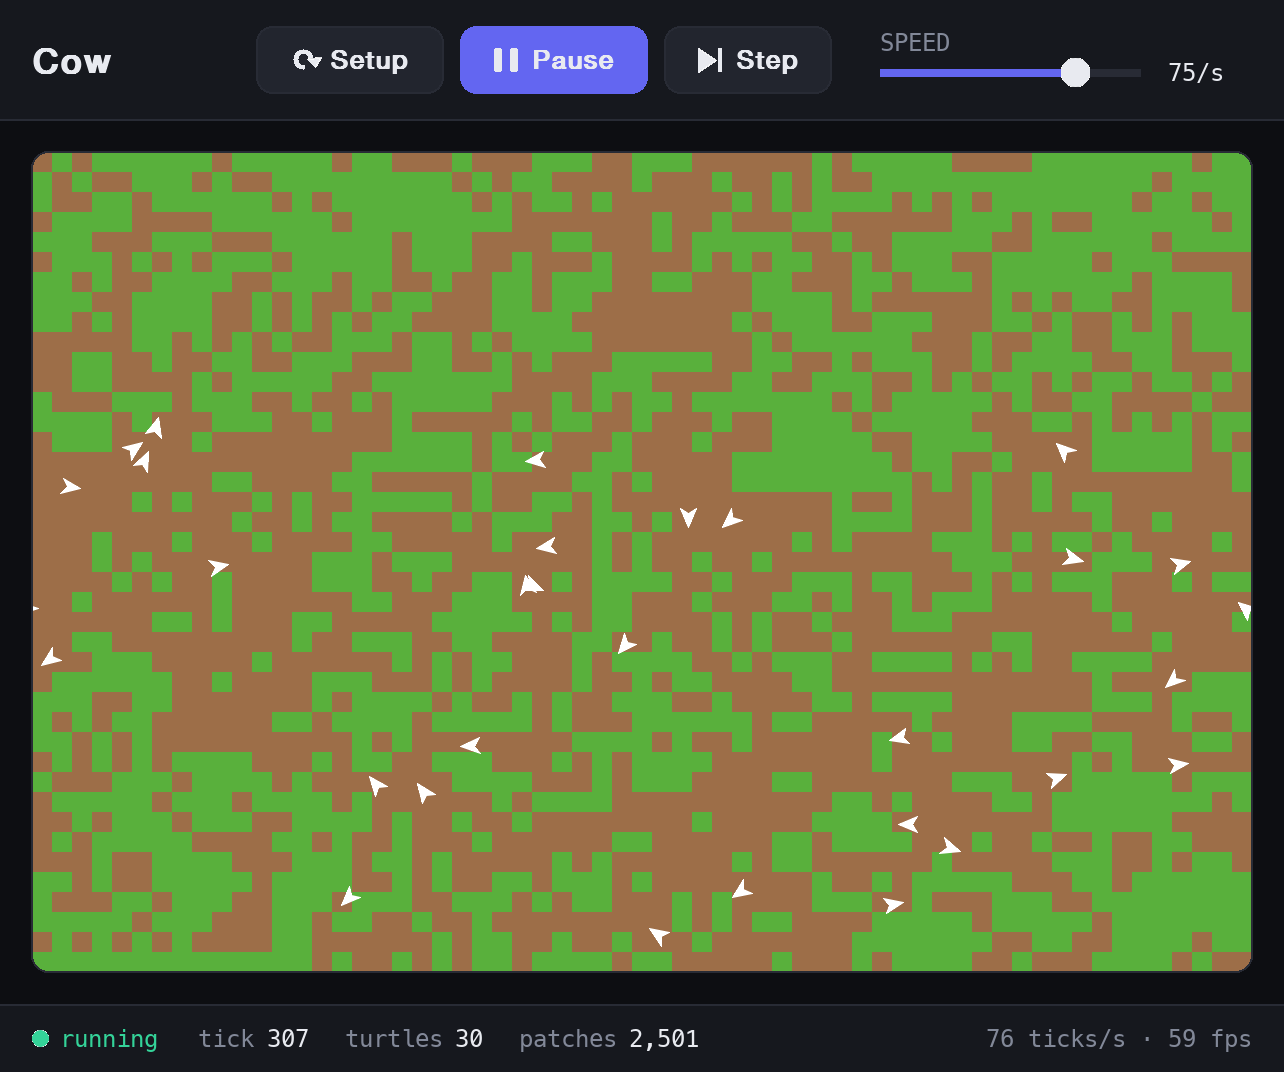
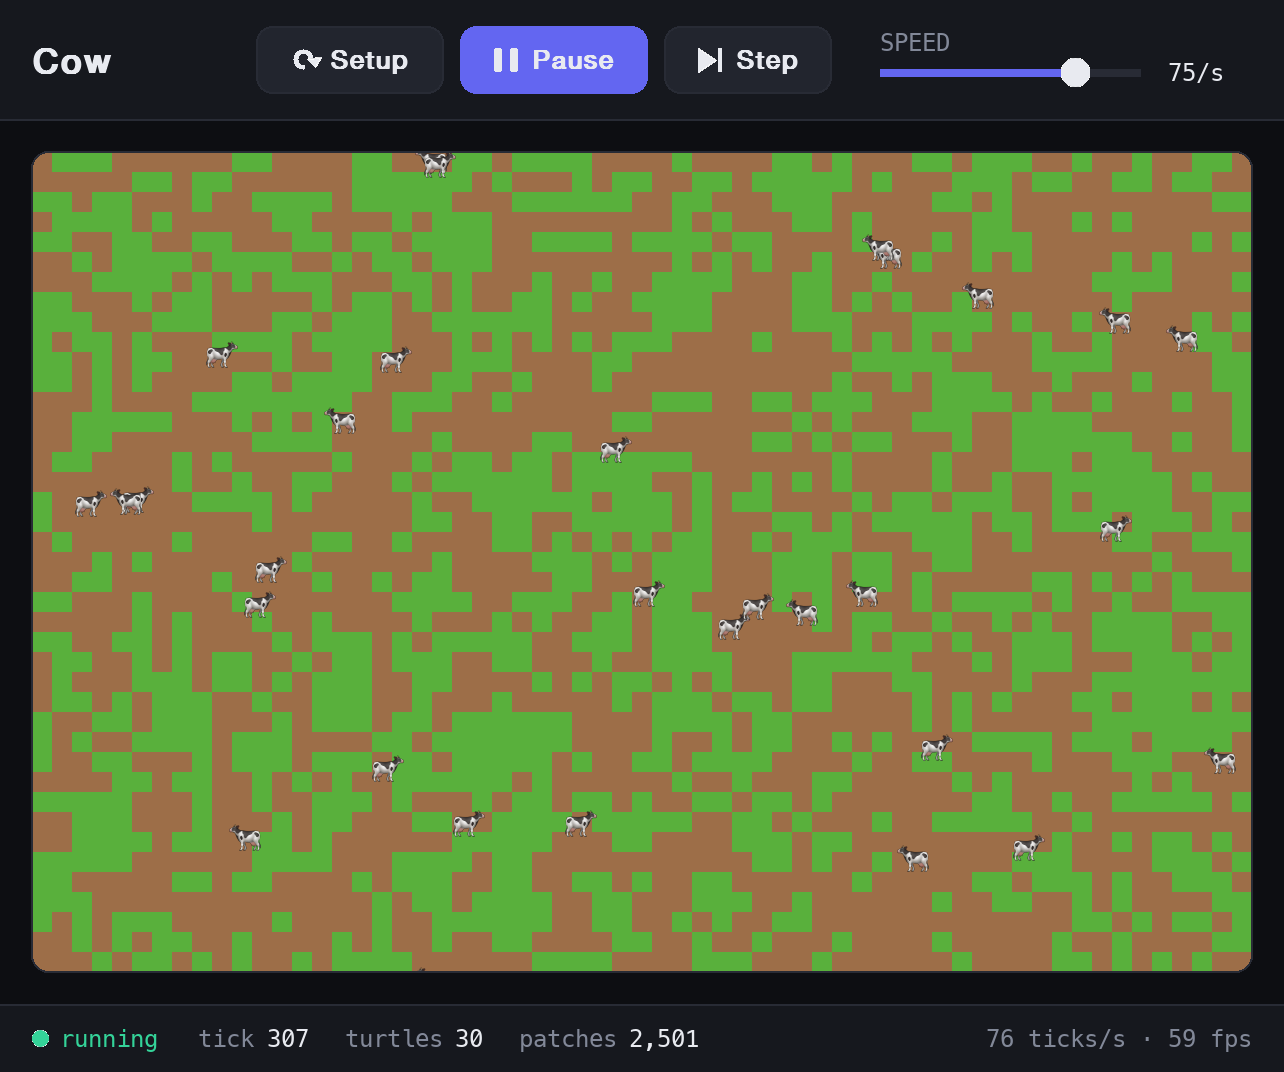
Add emoji turtle shapes with configurable orientation
Turtles can set shape to an emoji, drawn with the system color emoji font.
shape_orient (None, rotate, flip_x, flip_y, flip_xy) and shape_facing control
how it follows the heading. Missing fonts or glyphs fall back to the arrow
with a warning. The grazing example now uses cow emoji.

diff --git a/src/emerge/emoji.py b/src/emerge/emoji.py
@@ -1,0 +1,110 @@
+"""Rendering emoji turtle shapes with the system's color emoji font."""
+
+import math
+import warnings
+
+import pygame
+
+FONT_NAMES = "applecoloremoji,segoeuiemoji,notocoloremoji"
+FONT_PATHS = (
+    "/System/Library/Fonts/Apple Color Emoji.ttc",
+    "C:/Windows/Fonts/seguiemj.ttf",
+    "/usr/share/fonts/truetype/noto/NotoColorEmoji.ttf",
+    "/usr/share/fonts/noto/NotoColorEmoji.ttf",
+)
+# Bitmap emoji fonts snap to their nearest built-in size, typically ~100-160px.
+RENDER_SIZE = 128
+# Rotations are rounded to this many degrees so cached images can be reused.
+ANGLE_STEP = 3
+MAX_CACHE = 5000
+
+ORIENTS = (None, "rotate", "flip_x", "flip_y", "flip_xy")
+
+
+def orientation(orient: str | None, heading: float, facing: float) -> tuple[bool, bool, int]:
+    """How to transform an emoji drawn facing `facing` for a turtle heading
+    `heading`. Returns (flip_x, flip_y, angle), where angle is a pygame
+    rotation in degrees (counterclockwise), applied after flipping.
+    """
+    if orient not in ORIENTS:
+        raise ValueError(f"shape_orient must be one of {ORIENTS}, not {orient!r}")
+    if orient is None:
+        return False, False, 0
+    if orient == "rotate":
+        angle = round((facing - heading) / ANGLE_STEP) * ANGLE_STEP % 360
+        return False, False, angle
+    h, f = math.radians(heading), math.radians(facing)
+    # Flip when the heading points to the opposite side from the emoji's
+    # facing: east vs. west for x, north vs. south for y.
+    flip_x = orient in ("flip_x", "flip_xy") and math.sin(h) * math.sin(f) < -1e-9
+    flip_y = orient in ("flip_y", "flip_xy") and math.cos(h) * math.cos(f) < -1e-9
+    return flip_x, flip_y, 0
+
+
+class EmojiRenderer:
+    """Renders emoji at any size and orientation, caching the results."""
+
+    def __init__(self):
+        self._font: pygame.font.Font | None = None
+        self._font_loaded = False
+        self._base: dict[str, pygame.Surface | None] = {}
+        self._cache: dict[tuple, pygame.Surface] = {}
+
+    def _load_font(self) -> pygame.font.Font | None:
+        if not self._font_loaded:
+            self._font_loaded = True
+            if not pygame.font.get_init():
+                pygame.font.init()
+            path =pygame.font.match_font(FONT_NAMES)
+            candidates = ([path] if path else []) + list(FONT_PATHS)
+            for candidate in candidates:
+                try:
+                    self._font = pygame.font.Font(candidate, RENDER_SIZE)
+                    break
+                except (OSError, FileNotFoundError, pygame.error):
+                    continue
+            else:
+                warnings.warn("no color emoji font found; drawing emoji turtles as arrows")
+        return self._font
+
+    def _base_image(self, emoji: str) -> pygame.Surface | None:
+        """The emoji at full render size, cropped to its visible pixels, or
+        None if it can't be drawn.
+        """
+        if emoji not in self._base:
+            image = None
+            font = self._load_font()
+            if font is not None:
+                rendered = font.render(emoji, True, (255, 255, 255))
+                bounds = rendered.get_bounding_rect()
+                if bounds.width and bounds.height:
+                    image = rendered.subsurface(bounds).copy()
+                else:
+                    warnings.warn(f"emoji font has no glyph for {emoji!r}; drawing an arrow")
+            self._base[emoji] = image
+        return self._base[emoji]
+
+    def image(
+        self, emoji: str, size: int, orient: str | None, heading: float, facing: float
+    ) -> pygame.Surface | None:
+        """The emoji scaled to fit a `size`-pixel square and oriented for
+        `heading`, or None if it can't be drawn.
+        """
+        flip_x, flip_y, angle = orientation(orient, heading, facing)
+        key = (emoji, size, flip_x, flip_y, angle)
+        image = self._cache.get(key)
+        if image is None:
+            base = self._base_image(emoji)
+            if base is None:
+                return None
+            w, h = base.get_size()
+            fit = max(1, size) / max(w, h)
+            image = pygame.transform.smoothscale(base, (max(1, round(w * fit)), max(1, round(h * fit))))
+            if flip_x or flip_y:
+                image = pygame.transform.flip(image, flip_x, flip_y)
+            if angle:
+                image = pygame.transform.rotozoom(image, angle, 1)
+            if len(self._cache) >= MAX_CACHE:
+                self._cache.clear()
+            self._cache[key] = image
+        return image

diff --git a/src/emerge/gui.py b/src/emerge/gui.py
@@ -10,6 +10,7 @@ import time
 import pygame
 import pygame.gfxdraw
 
+from .emoji import EmojiRenderer
 from .model import Model, Turtle
 
 # --- Theme ----------------------------------------------------------------
@@ -49,7 +50,8 @@ FPS = 60
 # Turtle outline in turtle-local coordinates for a size-1 turtle: x is to the
 # turtle's right, y is straight ahead.
 TURTLE_SHAPE = [(0.0, 0.5), (0.4, -0.45), (0.0, -0.2), (-0.4, -0.45)]
-TURTLE_RADIUS = 0.5
+# Half the diagonal of a size-1 square: covers the arrow and rotated emoji.
+TURTLE_RADIUS = 0.71
 
 
 class Button:
@@ -89,6 +91,7 @@ class App:
         self.font_title = pygame.font.SysFont(UI_FONTS, self.px(17), bold=True)
         self.font_mono = pygame.font.SysFont(MONO_FONTS, self.px(12))
         self.clock = pygame.time.Clock()
+        self.emoji = EmojiRenderer()
 
         # World view, drawn at full pixel resolution.
         self.view_rect = pygame.Rect(
@@ -273,8 +276,17 @@ class App:
         )
 
     def draw_turtle(self, t: Turtle) -> None:
-        m = self.model
-        scale = m.patch_size * self.dpr
+        scale = self.model.patch_size * self.dpr
+        centers = self.turtle_centers(t, scale)
+        if t.shape is not None:
+            image = self.emoji.image(
+                t.shape, round(t.size * scale), t.shape_orient, t.heading, t.shape_facing
+            )
+            if image is not None:
+                for cx, cy in centers:
+                    self.view.blit(image, image.get_rect(center=(round(cx), round(cy))))
+                return
+
         rad = math.radians(t.heading)
         sin, cos = math.sin(rad), math.cos(rad)
         # Rotate clockwise by heading: "ahead" maps to (sin, cos).
@@ -282,7 +294,16 @@ class App:
             (lx * t.size * cos + ly * t.size * sin, -lx * t.size * sin + ly * t.size * cos)
             for lx, ly in TURTLE_SHAPE
         ]
-        # A turtle overlapping an edge is also drawn on the opposite side.
+        for cx, cy in centers:
+            points = [(round(cx + dx * scale), round(cy - dy * scale)) for dx, dy in local]
+            pygame.gfxdraw.filled_polygon(self.view, points, t.color)
+            pygame.gfxdraw.aapolygon(self.view, points, t.color)
+
+    def turtle_centers(self, t: Turtle, scale: float) -> list[tuple[float, float]]:
+        """Where to draw a turtle in view pixels. A turtle overlapping an edge
+        is also drawn on the opposite side.
+        """
+        m = self.model
         r = TURTLE_RADIUS * t.size
         x_offsets, y_offsets = [0], [0]
         if t.x + r > m.max_x + 0.5:
@@ -293,13 +314,11 @@ class App:
             y_offsets.append(-m.height)
         if t.y - r < -m.max_y - 0.5:
             y_offsets.append(m.height)
-        for ox in x_offsets:
-            for oy in y_offsets:
-                cx = (t.x + ox + m.max_x + 0.5) * scale
-                cy = (m.max_y + 0.5 - t.y - oy) * scale
-                points = [(round(cx + dx * scale), round(cy - dy * scale)) for dx, dy in local]
-                pygame.gfxdraw.filled_polygon(self.view, points, t.color)
-                pygame.gfxdraw.aapolygon(self.view, points, t.color)
+        return [
+            ((t.x + ox + m.max_x + 0.5) * scale, (m.max_y + 0.5 - t.y - oy) * scale)
+            for ox in x_offsets
+            for oy in y_offsets
+        ]
 
     def draw_header(self) -> None:
         bar = pygame.Rect(0, 0, self.win_w, HEADER_HEIGHT)

diff --git a/tests/test_emoji.py b/tests/test_emoji.py
@@ -1,0 +1,77 @@
+import pytest
+
+from emerge import Model, Turtle
+from emerge.emoji import EmojiRenderer, orientation
+from emerge.gui import App
+
+WEST, NORTH, NORTHEAST = 270, 0, 45
+
+
+@pytest.mark.parametrize("heading", [0, 90, 200, 333])
+def test_none_never_changes(heading):
+    assert orientation(None, heading, WEST) == (False, False, 0)
+
+
+@pytest.mark.parametrize(
+    "heading, flipped", [(0, False), (45, True), (90, True), (135, True), (180, False), (225, False), (270, False)]
+)
+def test_flip_x_faces_east_or_west(heading, flipped):
+    assert orientation("flip_x", heading, WEST) == (flipped, False, 0)
+
+
+@pytest.mark.parametrize(
+    "heading, flipped", [(0, False), (90, False), (135, True), (180, True), (225, True), (315, False)]
+)
+def test_flip_y_faces_north_or_south(heading, flipped):
+    assert orientation("flip_y", heading, NORTH) == (False, flipped, 0)
+
+
+@pytest.mark.parametrize(
+    "heading, flips", [(45, (False, False)), (135, (False, True)), (225, (True, True)), (315, (True, False))]
+)
+def test_flip_xy_picks_the_quadrant(heading, flips):
+    assert orientation("flip_xy", heading, NORTHEAST) == (*flips, 0)
+
+
+@pytest.mark.parametrize("heading, angle", [(270, 0), (0, 270), (90, 180), (180, 90), (271, 0)])
+def test_rotate_turns_facing_to_heading(heading, angle):
+    # pygame angles are counterclockwise; headings are clockwise.
+    assert orientation("rotate", heading, WEST) == (False, False, angle)
+
+
+def test_unknown_orient_raises():
+    with pytest.raises(ValueError, match="shape_orient"):
+        orientation("spin", 0, WEST)
+
+
+@pytest.fixture
+def renderer():
+    r = EmojiRenderer()
+    if r._load_font() is None:
+        pytest.skip("no color emoji font on this system")
+    return r
+
+
+def test_renders_scaled_emoji(renderer):
+    image = renderer.image("🐄", 40, "flip_x", 90, WEST)
+    assert max(image.get_size()) == 40
+    assert renderer.image("🐄", 40, "flip_x", 90, WEST) is image  # cached
+
+
+def test_missing_glyph_returns_none(renderer):
+    with pytest.warns(UserWarning, match="no glyph"):
+        assert renderer.image("\U000f0000", 40, None, 0, WEST) is None
+
+
+class Cow(Turtle):
+    shape = "🐄"
+
+
+def test_gui_draws_emoji_and_falls_back_to_arrows():
+    m = Model(breeds={Cow: 3, Turtle: 2}, max_x=3, max_y=3)
+    app = App(m, "emoji")
+    m.do_setup()
+    m.turtles[0].shape = "\U000f0000"  # no glyph: drawn as an arrow
+    with pytest.warns(UserWarning):
+        app.draw()
+    app.window.destroy()

diff --git a/src/emerge/model.py b/src/emerge/model.py
@@ -19,7 +19,25 @@ class Turtle:
     Don't override `__init__`; do per-turtle initialization in `setup`, which
     runs right after the model creates the turtle (with a random heading and
     color, at the origin).
+
+    By default a turtle is drawn as an arrow in its `color`. Set `shape` to an
+    emoji to draw that instead (in its own colors). `shape_orient` controls how
+    the emoji follows the turtle's heading:
+
+    - None: never changes.
+    - "rotate": rotates so its facing direction matches the heading.
+    - "flip_x": mirrors left/right to face east or west (the default).
+    - "flip_y": mirrors top/bottom to face north or south.
+    - "flip_xy": both flips, e.g. for an emoji drawn facing diagonally.
+
+    `shape_facing` is the heading the emoji is drawn facing: 270 (west) for
+    most animal emoji, 45 for 🚀. These can be set per turtle or as class
+    attributes.
     """
+
+    shape: str | None = None
+    shape_orient: str | None = "flip_x"
+    shape_facing: float = 270.0
 
     def __init__(
         self,

diff --git a/examples/grazing.py b/examples/grazing.py
@@ -19,8 +19,10 @@ class Grass(Patch):
 
 
 class Cow(Turtle):
+    shape = "🐄"
+
     def setup(self):
-        self.color = "white"
+        self.size = 1.6
         self.move_to(random.choice(self.model.patches))
 
     def step(self):

diff --git a/README.md b/README.md
@@ -57,6 +57,30 @@ or `(r, g, b)` tuples.
 shade of `color` running from black at `low`, through the color itself, to white at
 `high`. Swap `low` and `high` to reverse it. See `examples/cat_and_mouse.py`.
 
+### Emoji shapes
+
+Turtles are drawn as arrows in their `color` by default. Set `shape` to an emoji to draw
+that instead, and `shape_orient` to choose how it follows the turtle's heading:
+
+```python
+class Cow(Turtle):
+    shape = "🐄"
+    shape_orient = "flip_x"   # the default
+    shape_facing = 270        # the direction the emoji is drawn facing (west)
+```
+
+| `shape_orient` | The emoji... |
+| --- | --- |
+| `None` | never changes |
+| `"rotate"` | rotates so its facing direction matches the heading |
+| `"flip_x"` | mirrors left/right to face east or west |
+| `"flip_y"` | mirrors top/bottom to face north or south |
+| `"flip_xy"` | does both, e.g. 🚀 with `shape_facing = 45` |
+
+Most animal emoji face west, hence the default `shape_facing = 270`. These can be class
+attributes or set per turtle. Emoji use the system's color emoji font; if there isn't one
+(or it lacks the glyph), the turtle falls back to an arrow with a warning.
+
 ## Patches
 
 The world is a grid of patches with integer coordinates. To give them state and behavior,
@@ -105,7 +129,7 @@ Run any of these with `uv run examples/<name>.py`.
 | --- | --- |
 | [`wander.py`](examples/wander.py) | Turtles moving, turning, and changing color |
 | [`circles.py`](examples/circles.py) | Turtle `setup()`, and a model stopping itself |
-| [`grazing.py`](examples/grazing.py) | Patches with state, and turtles changing the patch underfoot |
+| [`grazing.py`](examples/grazing.py) | Patches with state, turtles changing the patch underfoot, and emoji shapes |
 | [`life.py`](examples/life.py) | Patches only: Conway's Game of Life with a custom `go()` |
 | [`cat_and_mouse.py`](examples/cat_and_mouse.py) | `face`, `distance`, and `scale_color` |
 
